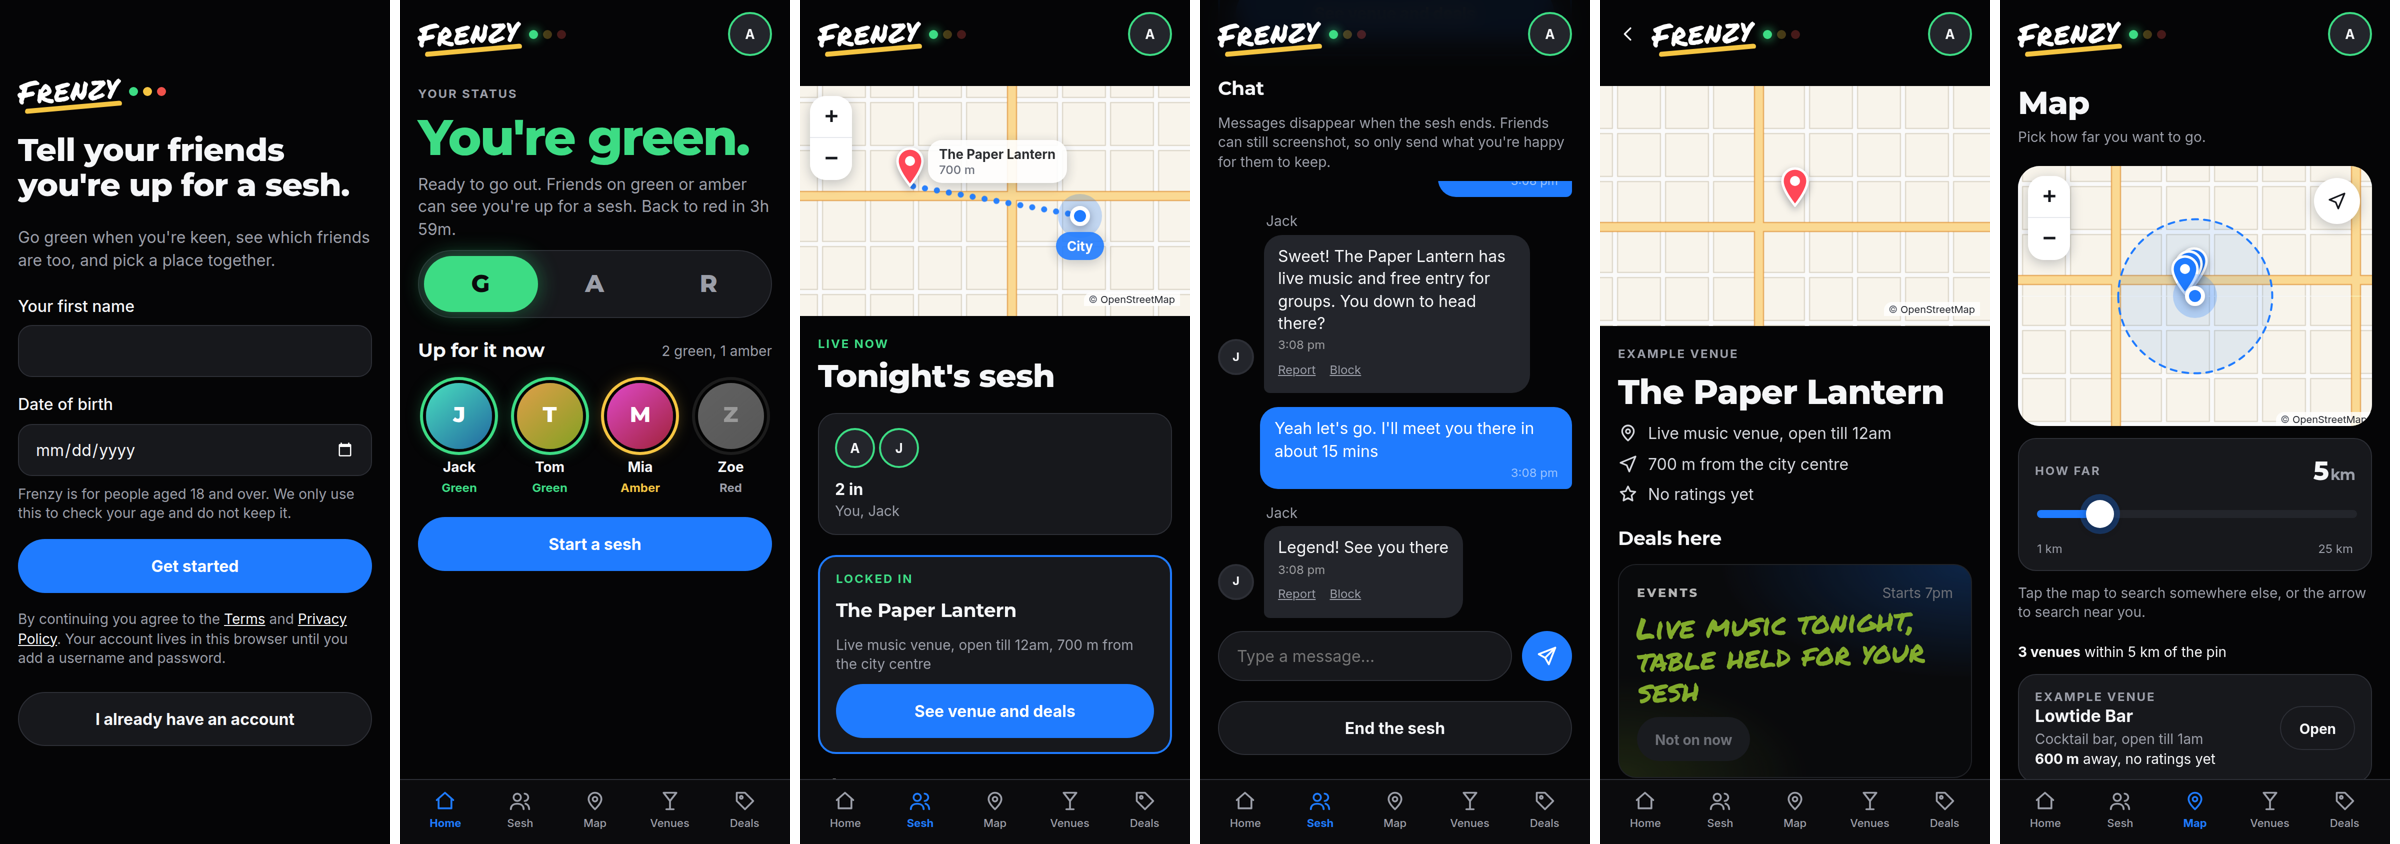
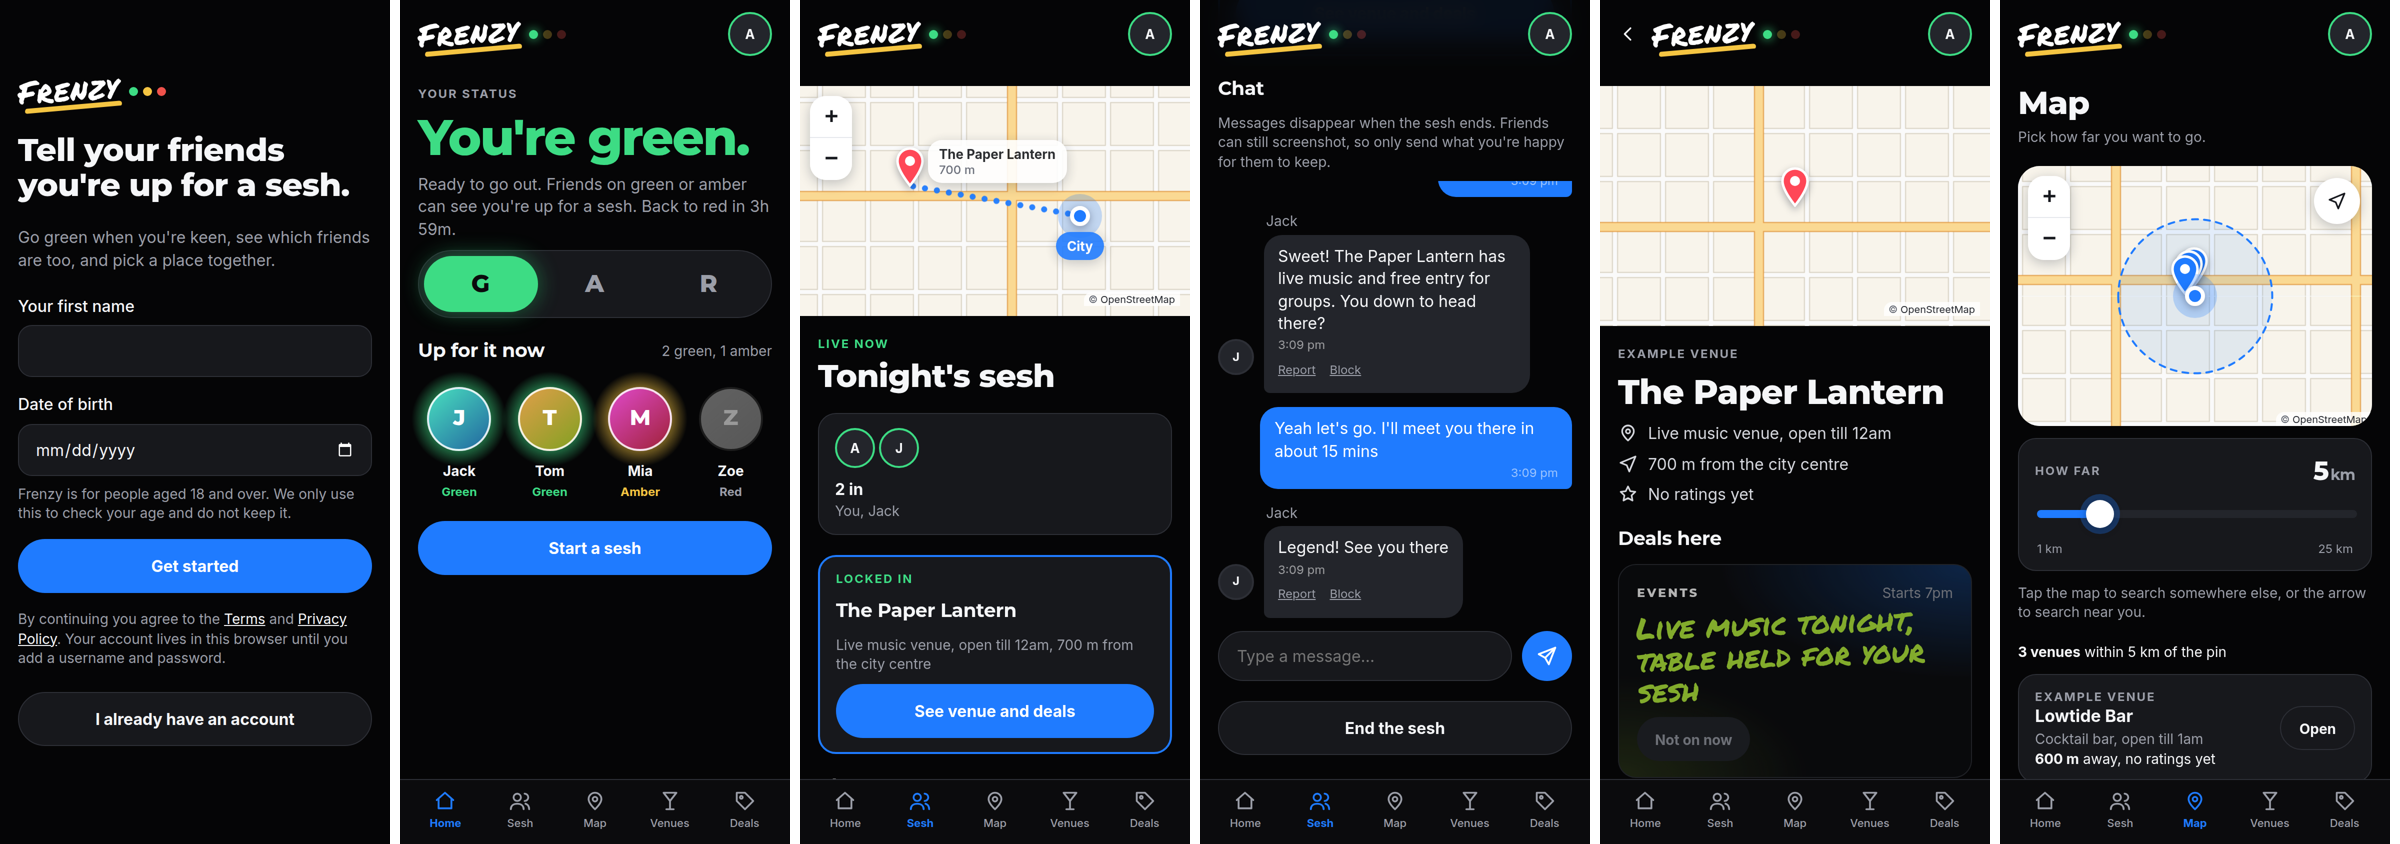
Light friends' faces from behind in their status colour instead of a ring
Claude-Session: https://claude.ai/code/session_01GEaruTsU1B5X7h7thVB5mG

Changed region(s): [[0.1562, 0.4313, 0.3125, 0.7085]]

diff --git a/docs/index.html b/docs/index.html
@@ -99,13 +99,14 @@ h2 { font-family: var(--display); font-weight: 700; font-size: 19px; letter-spac
 .friend { display: flex; align-items: center; gap: 12px; min-height: 58px; padding: 0 2px; border-bottom: 1px solid var(--line); }
 .friend:last-child { border-bottom: 0; }
 .friend .state { font-size: 13px; font-weight: 700; color: var(--c); }
-/* Friends under the status switch: a row of round faces, ringed in each friend's status colour. */
-.faces { display: grid; grid-template-columns: repeat(auto-fill, minmax(76px, 1fr)); gap: 14px 8px; padding-top: 8px; }
-.friend.face { flex-direction: column; gap: 4px; min-height: 0; border: 0; padding: 0; text-align: center; }
-.face-pic { width: 66px; height: 66px; border-radius: 50%; display: flex; align-items: center; justify-content: center; font-family: var(--display); font-weight: 800; font-size: 22px; color: #fff;
-  background: linear-gradient(140deg, hsl(var(--h) 70% 58%), hsl(calc(var(--h) + 40) 65% 38%)); box-shadow: 0 0 0 3px var(--bg), 0 0 0 6px var(--c); margin: 6px 0 4px; }
-.friend.face:not(.away) .face-pic { box-shadow: 0 0 0 3px var(--bg), 0 0 0 6px var(--c), 0 0 18px color-mix(in srgb, var(--c) 55%, transparent); }
-.friend.face.away .face-pic { filter: grayscale(1) brightness(0.6); }
+/* Friends under the status switch: a row of round faces, each lit from behind in that friend's status colour. */
+.faces { display: grid; grid-template-columns: repeat(auto-fill, minmax(76px, 1fr)); gap: 14px 8px; padding-top: 10px; }
+.friend.face { position: relative; isolation: isolate; flex-direction: column; gap: 4px; min-height: 0; border: 0; padding: 0; text-align: center; }
+.face-pic { position: relative; width: 64px; height: 64px; border-radius: 50%; display: flex; align-items: center; justify-content: center; font-family: var(--display); font-weight: 800; font-size: 22px; color: #fff;
+  background: linear-gradient(140deg, hsl(var(--h) 70% 58%), hsl(calc(var(--h) + 40) 65% 38%)); border: 2px solid rgba(255, 255, 255, 0.85); margin: 8px 0 6px; }
+.face-pic::before { content: ''; position: absolute; inset: -18px; z-index: -1; border-radius: 50%; background: radial-gradient(circle, var(--c) 0%, color-mix(in srgb, var(--c) 55%, transparent) 42%, transparent 70%); }
+.friend.face.away .face-pic { filter: grayscale(1) brightness(0.6); border-color: var(--line); }
+.friend.face.away .face-pic::before { display: none; }
 .face-name { font-weight: 700; font-size: 14px; max-width: 100%; overflow: hidden; text-overflow: ellipsis; white-space: nowrap; }
 .friend.face .state { font-size: 12px; }
 .deal-title { font-weight: 700; color: var(--zest); overflow-wrap: anywhere; }
